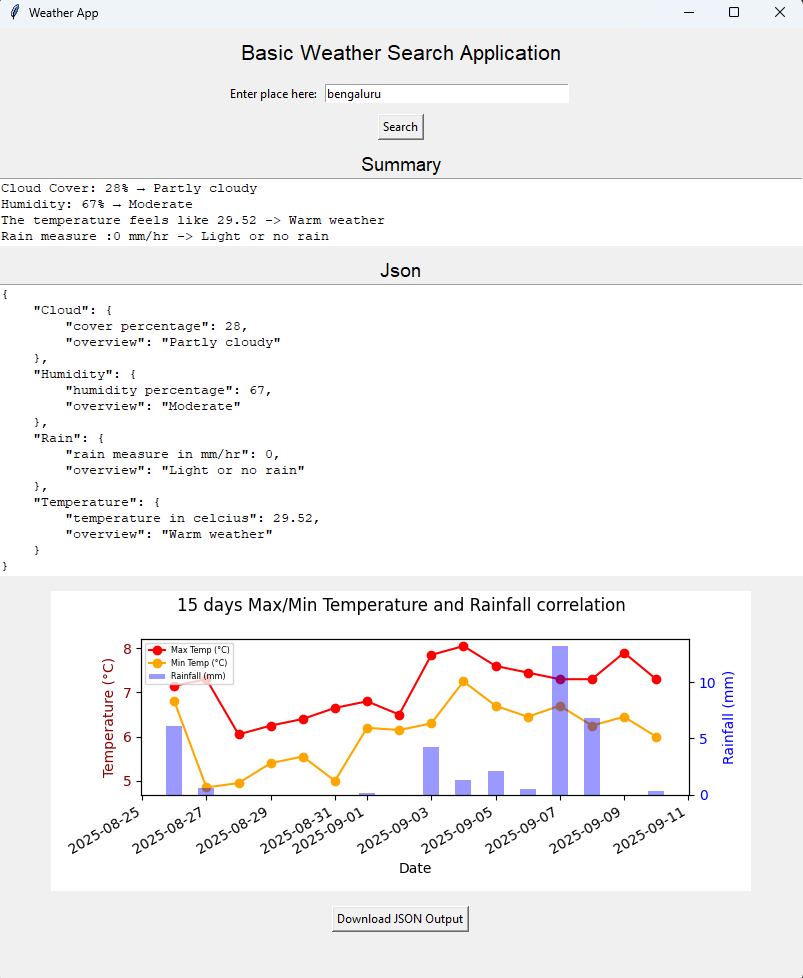
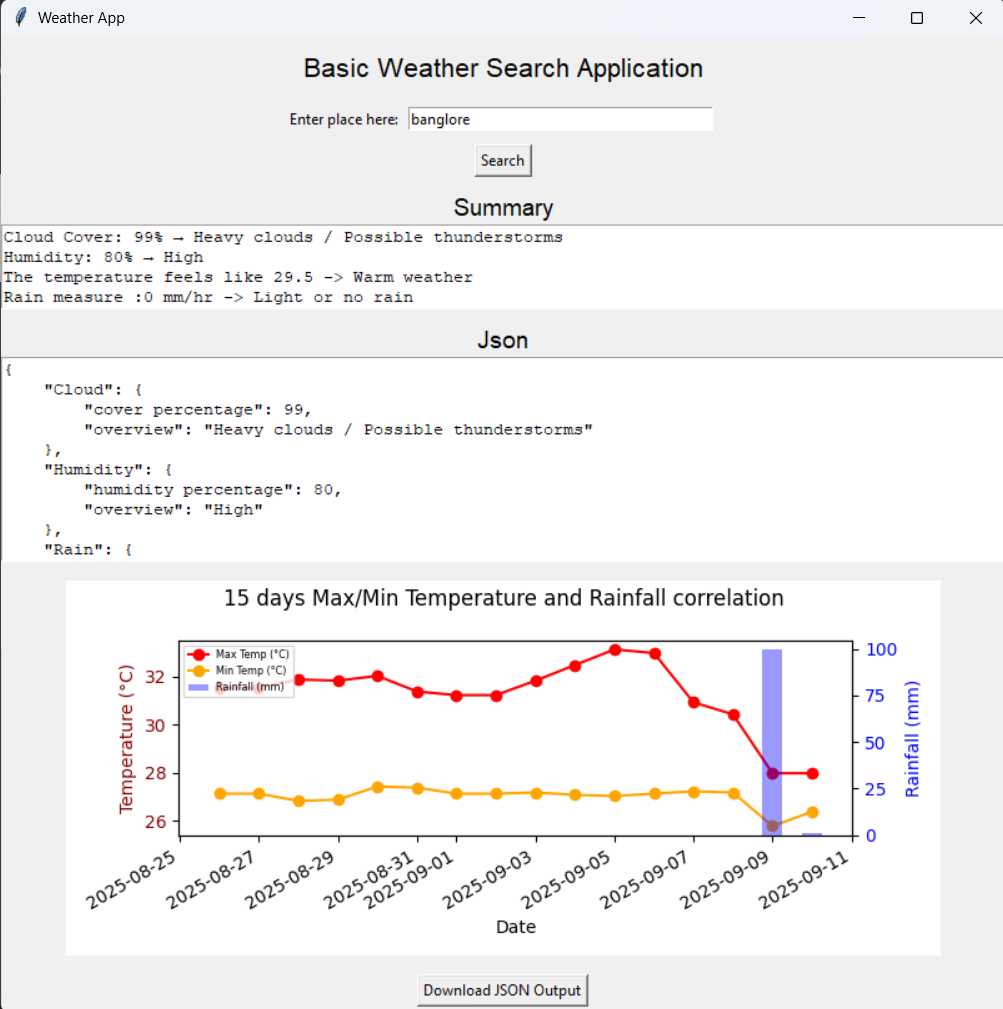
Updated temperature legend

diff --git a/app.py b/app.py
@@ -126,7 +126,7 @@ def get_historic_data(place):
     :param place: Name of the place
     :return: dataframe of the daily data retrieved
     """
-    lat,long = get_lat_long(place)
+    long,lat = get_lat_long(place)
     today, n_days_ago_date = get_today_older_date()
 
     cache_session = requests_cache.CachedSession('.cache', expire_after = 3600)
